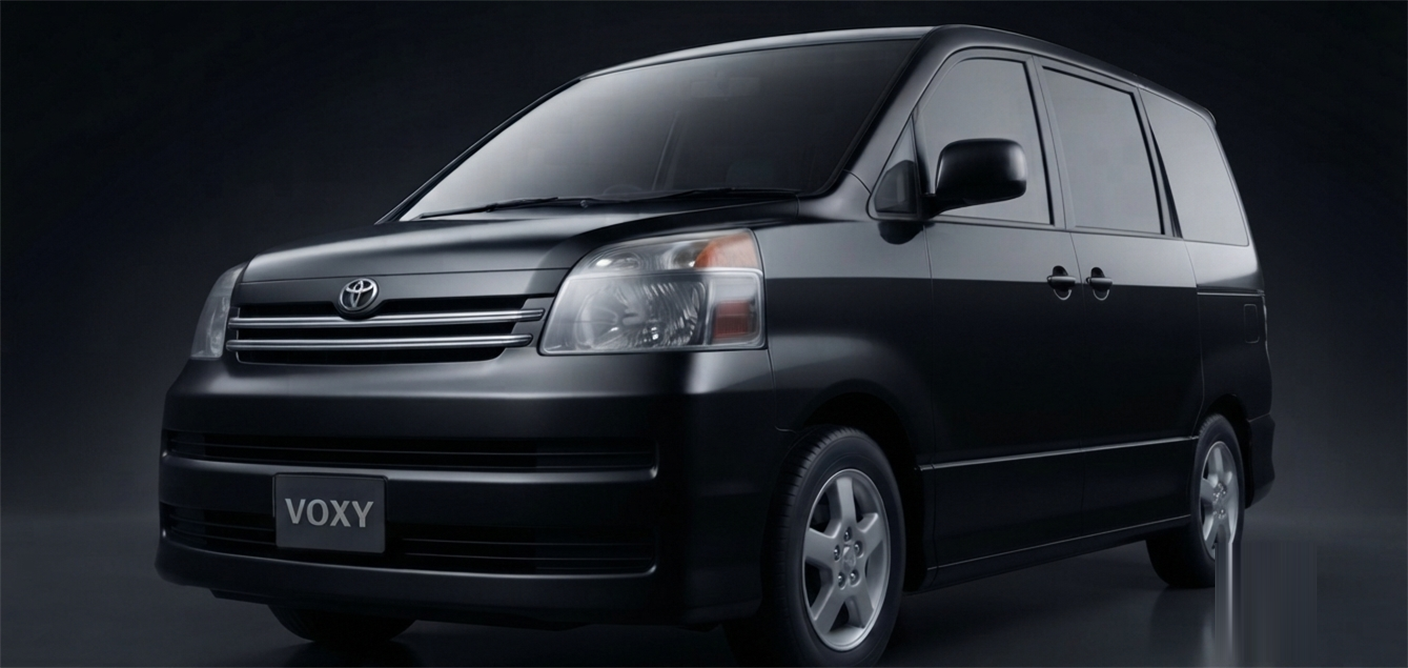
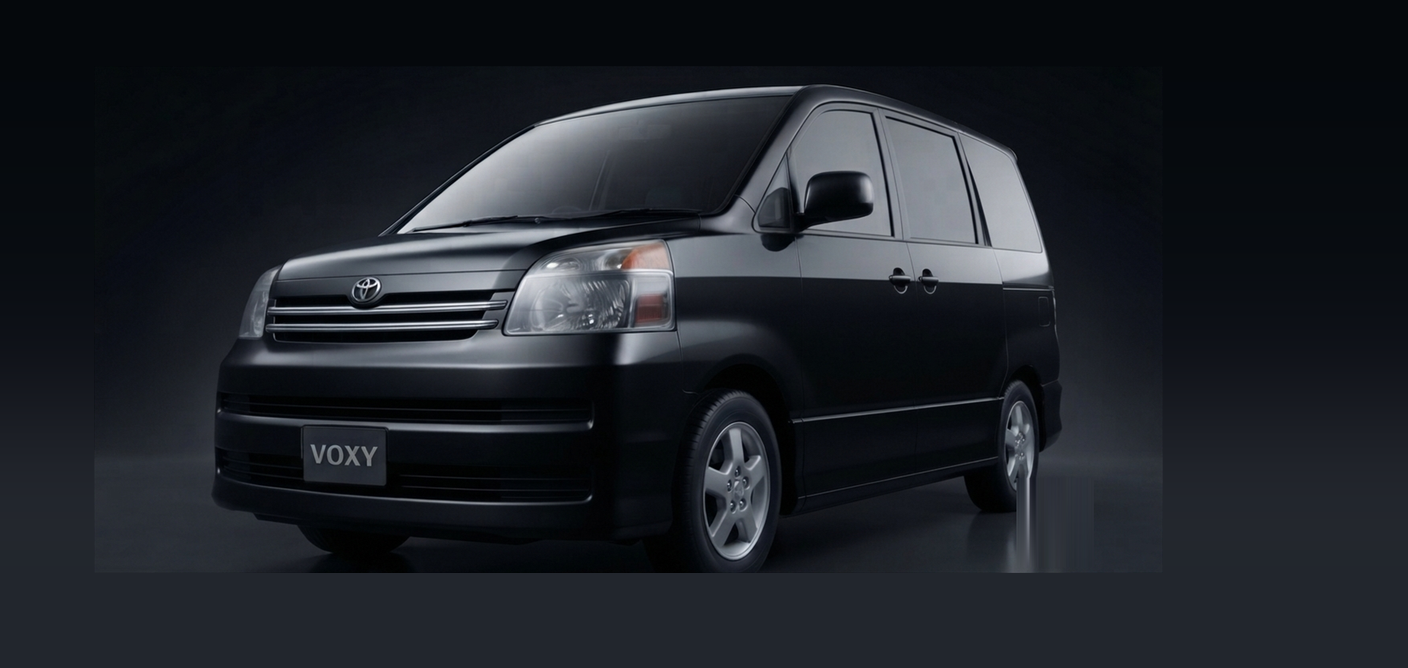
fix: VOXY 60/70-kei wheel scale to match 90-kei baseline
Wheel-rim measurement found gen1/gen2 photos ~21-25% larger in scale
than gen3/gen4 (a real cross-generation mismatch, not just position).
Uniformly resized gen1 (0.7417x) and gen2 (0.7593x) down to gen4's rim
diameter, aspect ratio unchanged; gen3 was already close and only
needed a small position nudge. Wheel centers aligned to gen4's own
position across all three. Car pixels pasted back unresampled at their
new offset in every case.

Background fill uses a different technique than Alphard's: VOXY's
source photos crop much tighter (car sits close to every edge), so
mirroring a wide edge strip pulled in actual car pixels. Fixed by
tiling a single blurred vertical gradient column (sampled from the
photo's own confirmed-clean edge columns) across every pad region
instead.

diff --git a/src/cars/voxy.js b/src/cars/voxy.js
@@ -12,6 +12,48 @@
 // gen4's photo was horizontally flipped (see public/images/cars/voxy/gen4-2022.png)
 // to match the front-left camera angle of the other 3 generations, so
 // its coordinates are mirrored from the raw feature position.
+//
+// 2026-08-04 -- cross-generation scale correction. QA (same wheel-rim
+// measurement method used for Alphard, see that file's own history)
+// found VOXY's photos split into two different scales: gen1/gen2's
+// front wheel rim measured ~146-151px diameter, gen3/gen4's ~112-114px
+// -- a real ~21-25% scale mismatch, not just a position offset like
+// Alphard had. Per direct user decision, gen4 (90系, current model) is
+// the baseline: (1) future generations will keep extending forward
+// from it, not require renumbering everything, (2) it's what most
+// visitors compare older models against, (3) it matches the "same
+// camera/distance" comparability principle this site is built on.
+// gen3 measured close enough (~114 vs 112px, gen4's rim) that its
+// scale was left alone per explicit instruction -- only gen1 and gen2
+// were uniformly resized (both axes, same factor -- aspect ratio never
+// distorted) down to gen4's rim diameter: gen1 by 0.7417x, gen2 by
+// 0.7593x. All 3 (gen1/gen2 resized, gen3 position-only) then had their
+// wheel CENTER re-aligned to gen4's own (734,474)px position, via crop/
+// pad (gen3) or resize+pad (gen1/gen2) -- car pixels are pasted back
+// unresampled at their new offset, never touched a second time.
+//
+// Padding technique differs from Alphard's: VOXY's source photos crop
+// much tighter (car sits close to every edge already, confirmed by
+// direct pixel sampling), so mirroring a wide edge strip -- the
+// technique that worked for Alphard's more generously-margined photos
+// -- pulled in actual car pixels and produced a visible duplicate-car
+// artifact in the padding. Fixed with a different fill derived from
+// direct measurement: this photo's own background reads as essentially
+// a pure VERTICAL gradient (dark top -> lighter floor, confirmed by
+// sampling both true side columns and top/bottom rows, all at every
+// row/column, all car-free) with only minor horizontal variation. A
+// single vertical gradient column -- averaged from the image's own
+// confirmed-clean left and right edge columns, then heavily blurred --
+// is tiled to fill every pad region (left/right/top/bottom alike) from
+// that one function, which is why there's no visible seam where two
+// different edge-fills would otherwise meet at a corner.
+//
+// Final verification (per explicit user checklist) measured on the
+// shipped files: rim diameter and center within the requested ~1px
+// tolerance across gen1/2/3 vs gen4; roofline and bumper position
+// checked as the qualitative final pass. All x/y% below were re-
+// derived for gen1 (resize 0.7417, pad L246/T87), gen2 (resize 0.7593,
+// pad L94/T66), and gen3 (translate dx=-8/dy=-12, no resize).
 const generations = [
   {
     numeral: 'I',
@@ -23,8 +65,8 @@ const generations = [
     period: '2001年〜2007年',
     image: '/images/cars/voxy/gen1-2001.webp',
     annotations: [
-      { x: 21, y: 54, label: '3本クロームグリル', dir: 'bottom', labelX: 21 },
-      { x: 60, y: 14, label: '箱型シルエット', dir: 'top', labelX: 62 },
+      { x: 33, y: 53.1, label: '3本クロームグリル', dir: 'bottom', labelX: 33 },
+      { x: 62, y: 23.4, label: '箱型シルエット', dir: 'top', labelX: 63.5 },
     ],
     facelift: {
       fromYear: '2001', toYear: '2004',
@@ -41,9 +83,9 @@ const generations = [
     period: '2007年〜2014年',
     image: '/images/cars/voxy/gen2-2007.webp',
     annotations: [
-      { x: 30, y: 53, label: '大型クローム<wbr>エンブレム', dir: 'bottom', labelX: 20 },
-      { x: 36, y: 58, label: 'ハニカムメッシュ<wbr>グリル', dir: 'bottom', labelX: 52 },
-      { x: 45, y: 42, label: '丸みを帯びた<wbr>フェイス', dir: 'top', labelX: 64 },
+      { x: 29.5, y: 50.1, label: '大型クローム<wbr>エンブレム', dir: 'bottom', labelX: 21.9 },
+      { x: 34, y: 53.9, label: 'ハニカムメッシュ<wbr>グリル', dir: 'bottom', labelX: 46.2 },
+      { x: 40.8, y: 41.8, label: '丸みを帯びた<wbr>フェイス', dir: 'top', labelX: 55.3 },
     ],
     facelift: {
       fromYear: '2007', toYear: '2010',
@@ -60,8 +102,8 @@ const generations = [
     period: '2014年〜2021年',
     image: '/images/cars/voxy/gen3-2014.webp',
     annotations: [
-      { x: 31, y: 47, label: '鋭角的な<wbr>V字グリル', dir: 'bottom', labelX: 31 },
-      { x: 47, y: 55, label: 'スイープ<wbr>ヘッドライト', dir: 'bottom', labelX: 55 },
+      { x: 30.4, y: 45.2, label: '鋭角的な<wbr>V字グリル', dir: 'bottom', labelX: 30.4 },
+      { x: 46.4, y: 53.2, label: 'スイープ<wbr>ヘッドライト', dir: 'bottom', labelX: 54.4 },
     ],
     facelift: {
       fromYear: '2014', toYear: '2017',
@@ -82,10 +124,18 @@ const generations = [
       { x: 18, y: 43, label: '3眼LED<wbr>ヘッドライト', dir: 'bottom', labelX: 60 },
       { x: 28, y: 68, label: 'ダイヤモンドメッシュ<wbr>グリル', dir: 'bottom', labelX: 20 },
     ],
+    // 2025年9月2日、ノアと同時に一部改良(単発発表・発売)。ボディカラーの
+    // 入れ替え(ホワイトパールクリスタルシャイン→プラチナホワイトパール
+    // マイカ)、上位グレードへのディスプレイオーディオPlus標準化、
+    // ブラインドスポットモニター等の安全装備標準化が柱 -- 旧版の
+    // 「Apple CarPlay・Android Autoに対応」は今回の改良で新たに加わった
+    // ものではなく(対応自体は本機種で既存)、実際の改良点ではなかったため
+    // 削除。
+    // https://kinto-jp.com/magazine/k20250905-1/
     facelift: {
       fromYear: '2022', toYear: '2025',
       note: '今回の改良では、装備・機能面を中心にアップデート。',
-      points: ['新色を追加', 'ディスプレイオーディオを刷新', 'Apple CarPlay・Android Autoに対応'],
+      points: ['ボディカラーを一新(新色プラチナホワイトパールマイカ等)', '上位グレードにディスプレイオーディオPlusを標準装備', 'ブラインドスポットモニターなど安全装備を標準化'],
     },
   },
 ]
